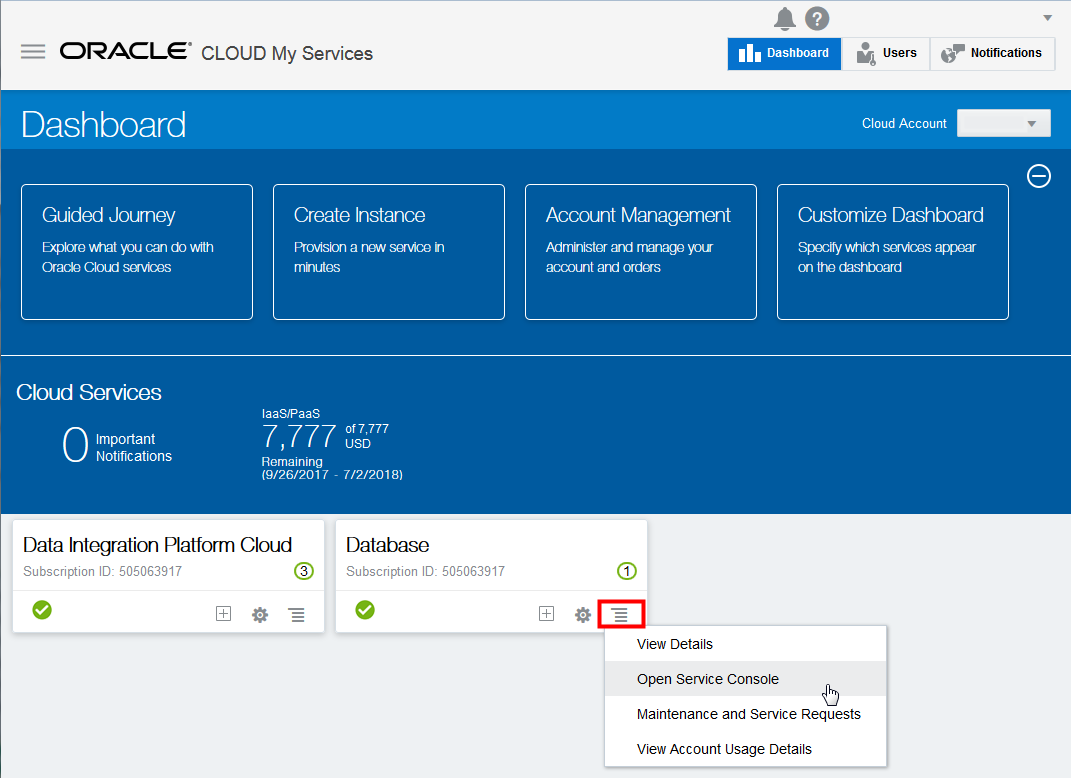
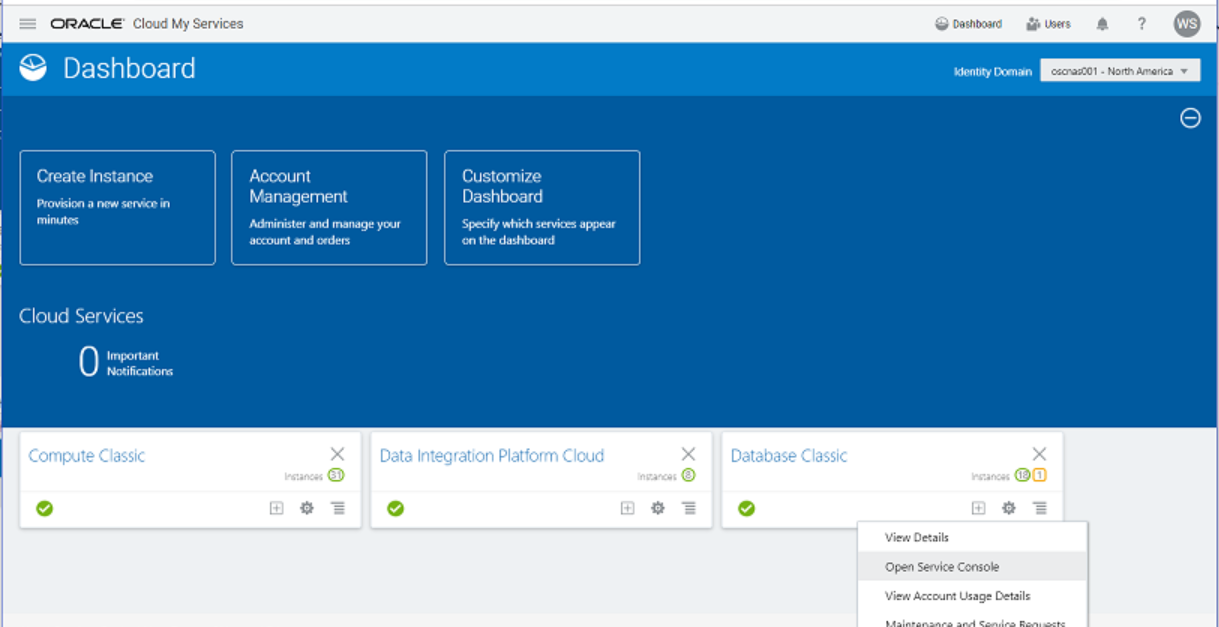
Lab 100 18.3.3 screenshots

diff --git a/CloudWorkshop_DIPC_100.md b/CloudWorkshop_DIPC_100.md
@@ -29,7 +29,7 @@ Click Services or Go to Dashboard to access My Oracle Services.
 
 ## Creating an Oracle Database Cloud Instance
 
-1. Locate Database in your list of services, then select "Open Service Console" from the Action menu. ![](images/100/image100_2.png)
+1. Locate "Database Classic" in your list of services, then select "Open Service Console" from the Action menu. ![](images/100/image100_2.png)
 
 2. On the Services page, click "Create Instance" button. This launches the Create DBC instance wizard. ![](images/100/image100_3.png)
 
